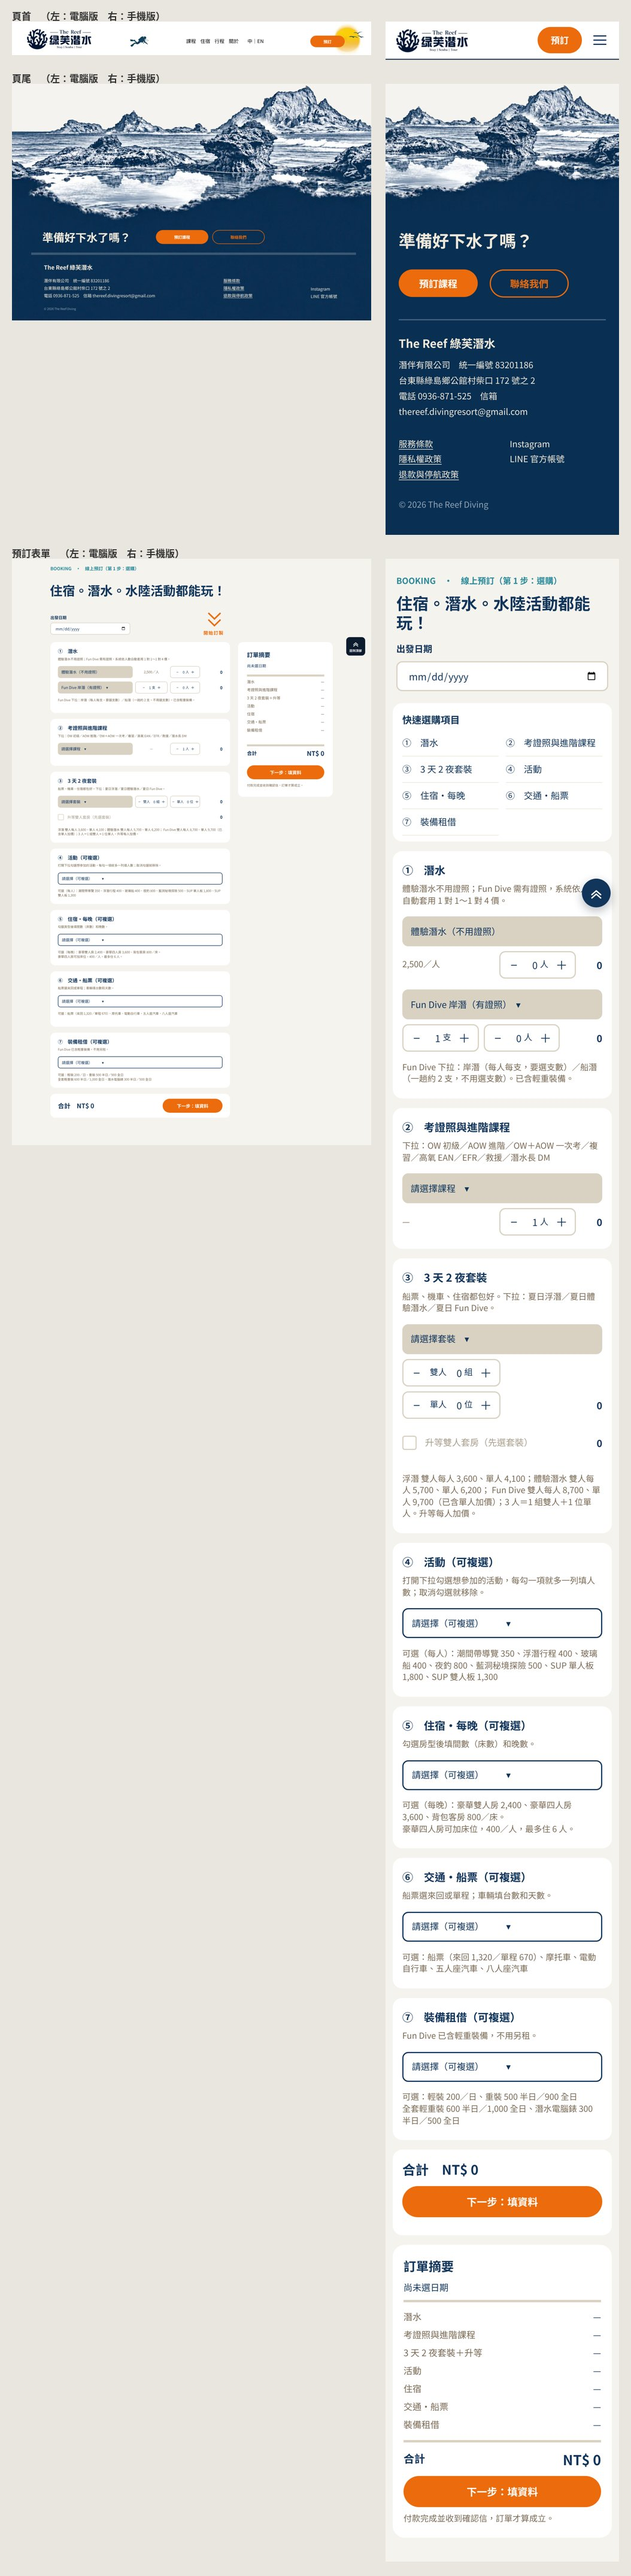
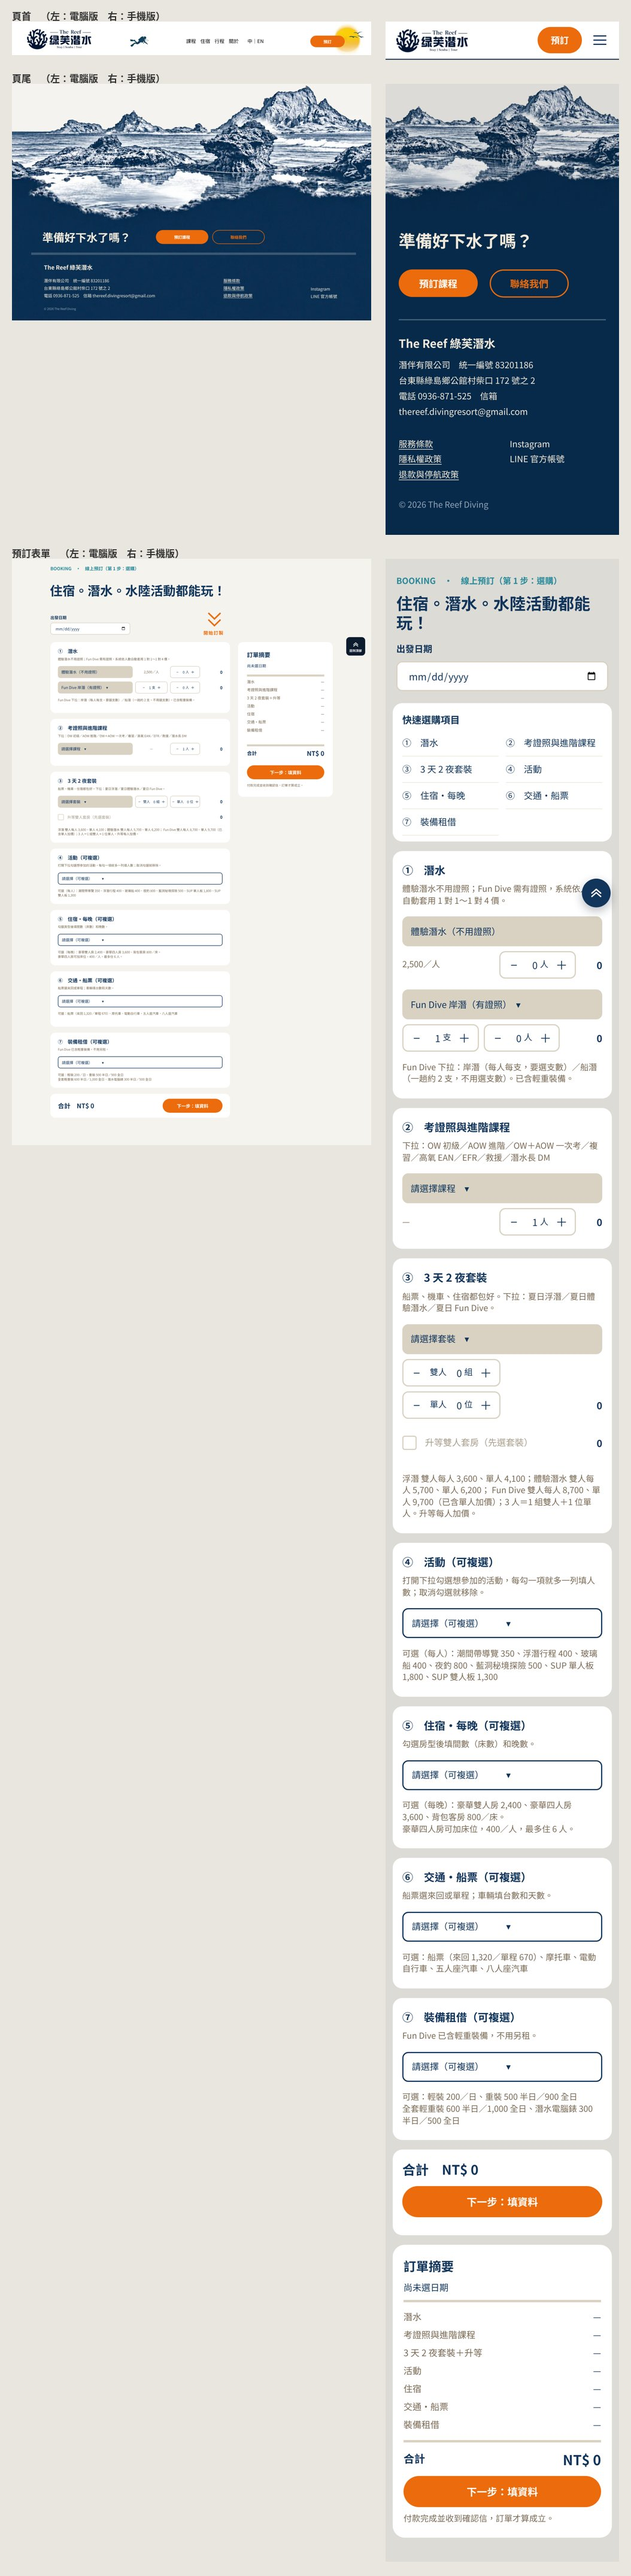
手機版第三輪（Ambre 11/24）：首頁開場拿掉向下捲動、課程開場改橫向潛水員接 OW＋標題兩行、住宿插圖縮小與底色加深、預訂底色加深、全站不引導打電話改＋LINE、回到頂部箭頭置中
Claude-Session: https://claude.ai/code/session_01CnUJQbiMrA1W4TEKzzgQDp

diff --git a/src/assets/css/back-to-top.css b/src/assets/css/back-to-top.css
@@ -41,6 +41,6 @@
 @media (max-width: 768px) {
   .back-to-top { top: auto !important; bottom: 18px; right: 14px; width: 48px; height: 48px; padding: 0; border-radius: 50%; gap: 0;
     background: #12355b; color: #fff; border: 0; box-shadow: 0 6px 16px rgba(13,27,46,.3); }
-  .bt-chevrons { width: 22px; height: 22px; color: #fff; }
+  .bt-chevrons { width: 22px; height: 22px; color: #fff; transform: translateY(-2.5px); } /* 雙箭頭在圖裡偏下，往上移到圓的正中央 */
   .bt-label { position: absolute; width: 1px; height: 1px; overflow: hidden; clip: rect(0 0 0 0); }
 }

diff --git a/src/assets/css/canvas-mobile.css b/src/assets/css/canvas-mobile.css
@@ -207,3 +207,8 @@
 @media (prefers-reduced-motion: reduce) { .hc-mband.beside.roam { animation: none; } }
 /* 隱私權珊瑚：靠右一點，底部貼齊下面的卡片 */
 .hc-mband.nudge { margin-left: 30px; margin-right: auto; }
+
+/* ===== 11/24 Ambre 第三輪 ===== */
+.hc-mg > .m-pre { white-space: pre !important; } /* 照電腦版的兩行，不再自動換行（課程開場標題） */
+/* 底色加深 10% 的頁（住宿、預訂）：插圖窗裡底圖的米色紙也一起加深，才不會有色塊 */
+.hc-mband.dim .hc-mband-bg { filter: brightness(.9); }

diff --git a/src/assets/css/booking.css b/src/assets/css/booking.css
@@ -143,6 +143,7 @@ body:has(.bk) .hc-scale { overflow-x: clip; }
 
 /* ---------- 手機（≤768px）：同樣的卡片、框線、橘色按鈕，改成一欄由上往下；訂單摘要接在表單下面 ---------- */
 @media (max-width: 768px) {
+  body:has(.bk), .hc-flow { background: #dddbd6; } /* 11/24 Ambre：手機底色加深 10%，白色卡片更明顯 */
   .hc-flow, .bk { width: 100%; }
   .bk { padding-bottom: 40px; font-size: 15px; }
   .bk-head { height: auto; padding: 28px 18px 20px; display: flex; flex-direction: column; gap: 10px; }

diff --git a/scripts/mobile-blocks.js b/scripts/mobile-blocks.js
@@ -35,7 +35,7 @@ function bandData(b, s, imgUrl, dx, dy, page) {
         const top = n.top - me.top;
         if (top < y1 && top + n.height > y0) one(`/assets/img/${page.imgDir}/${n.img}`, top, n.height);
       }
-    } else one(imgUrl, 0, s.height);
+    } else one(b.src ? imgUrl.replace(/[^/]+$/, b.src) : imgUrl, 0, s.height); // src：手機用的修圖版（例如首頁開場拿掉「向下捲動」的線）
   }
   if (b.fish !== false) {
     const pick = Array.isArray(b.fish) ? b.fish : null;

diff --git a/docs/手機版修改_1124.md b/docs/手機版修改_1124.md
@@ -58,3 +58,11 @@
 - 隱私權珊瑚：往右移、底部貼齊下面的卡片 ✅
 - 全站回到頂部：深色底＋白色向上箭頭，沒有外框線 ✅
 - 電腦版：只有服務條款結尾卡片、隱私權第 10 條與結尾卡片跟 main 不同（上面兩項要求的），其他逐像素相同。
+
+# 第三輪（Ambre 11/24）✅ 全部做完
+- 首頁：開場照片上的「向下捲動」拿掉（連同照片裡那條線：手機用修圖版 `home_s_open_m.webp`，插圖窗 `src` 指定）✅
+- 課程：開場標題固定兩行（m-pre）；開場改成文字在藍水上、下面整張寬的潛水員（比例同電腦版），肩膀下的黑色接 OW；OW 底圖改成同比例接上、上緣往下漸暗讓字看得清；版面比原本短 ✅
+- 住宿：房子插圖縮 20%；整頁底色加深 10%（#dbd8d1；有米色紙的插圖窗加 `dim` 一起加深；頁尾底色 #082a4a）✅
+- 預訂：手機底色加深 10%（#dddbd6）✅
+- 不引導打電話，一律改＋LINE（電腦版一起變）：退款結尾卡片（askLineOrange）、關於留言「急事請直接＋LINE」（lineShort）、留言送出訊息、預訂頁載入失敗／付款開通中／查詢訂單文字 ✅
+- 回到頂部：箭頭移到圓形正中央 ✅
